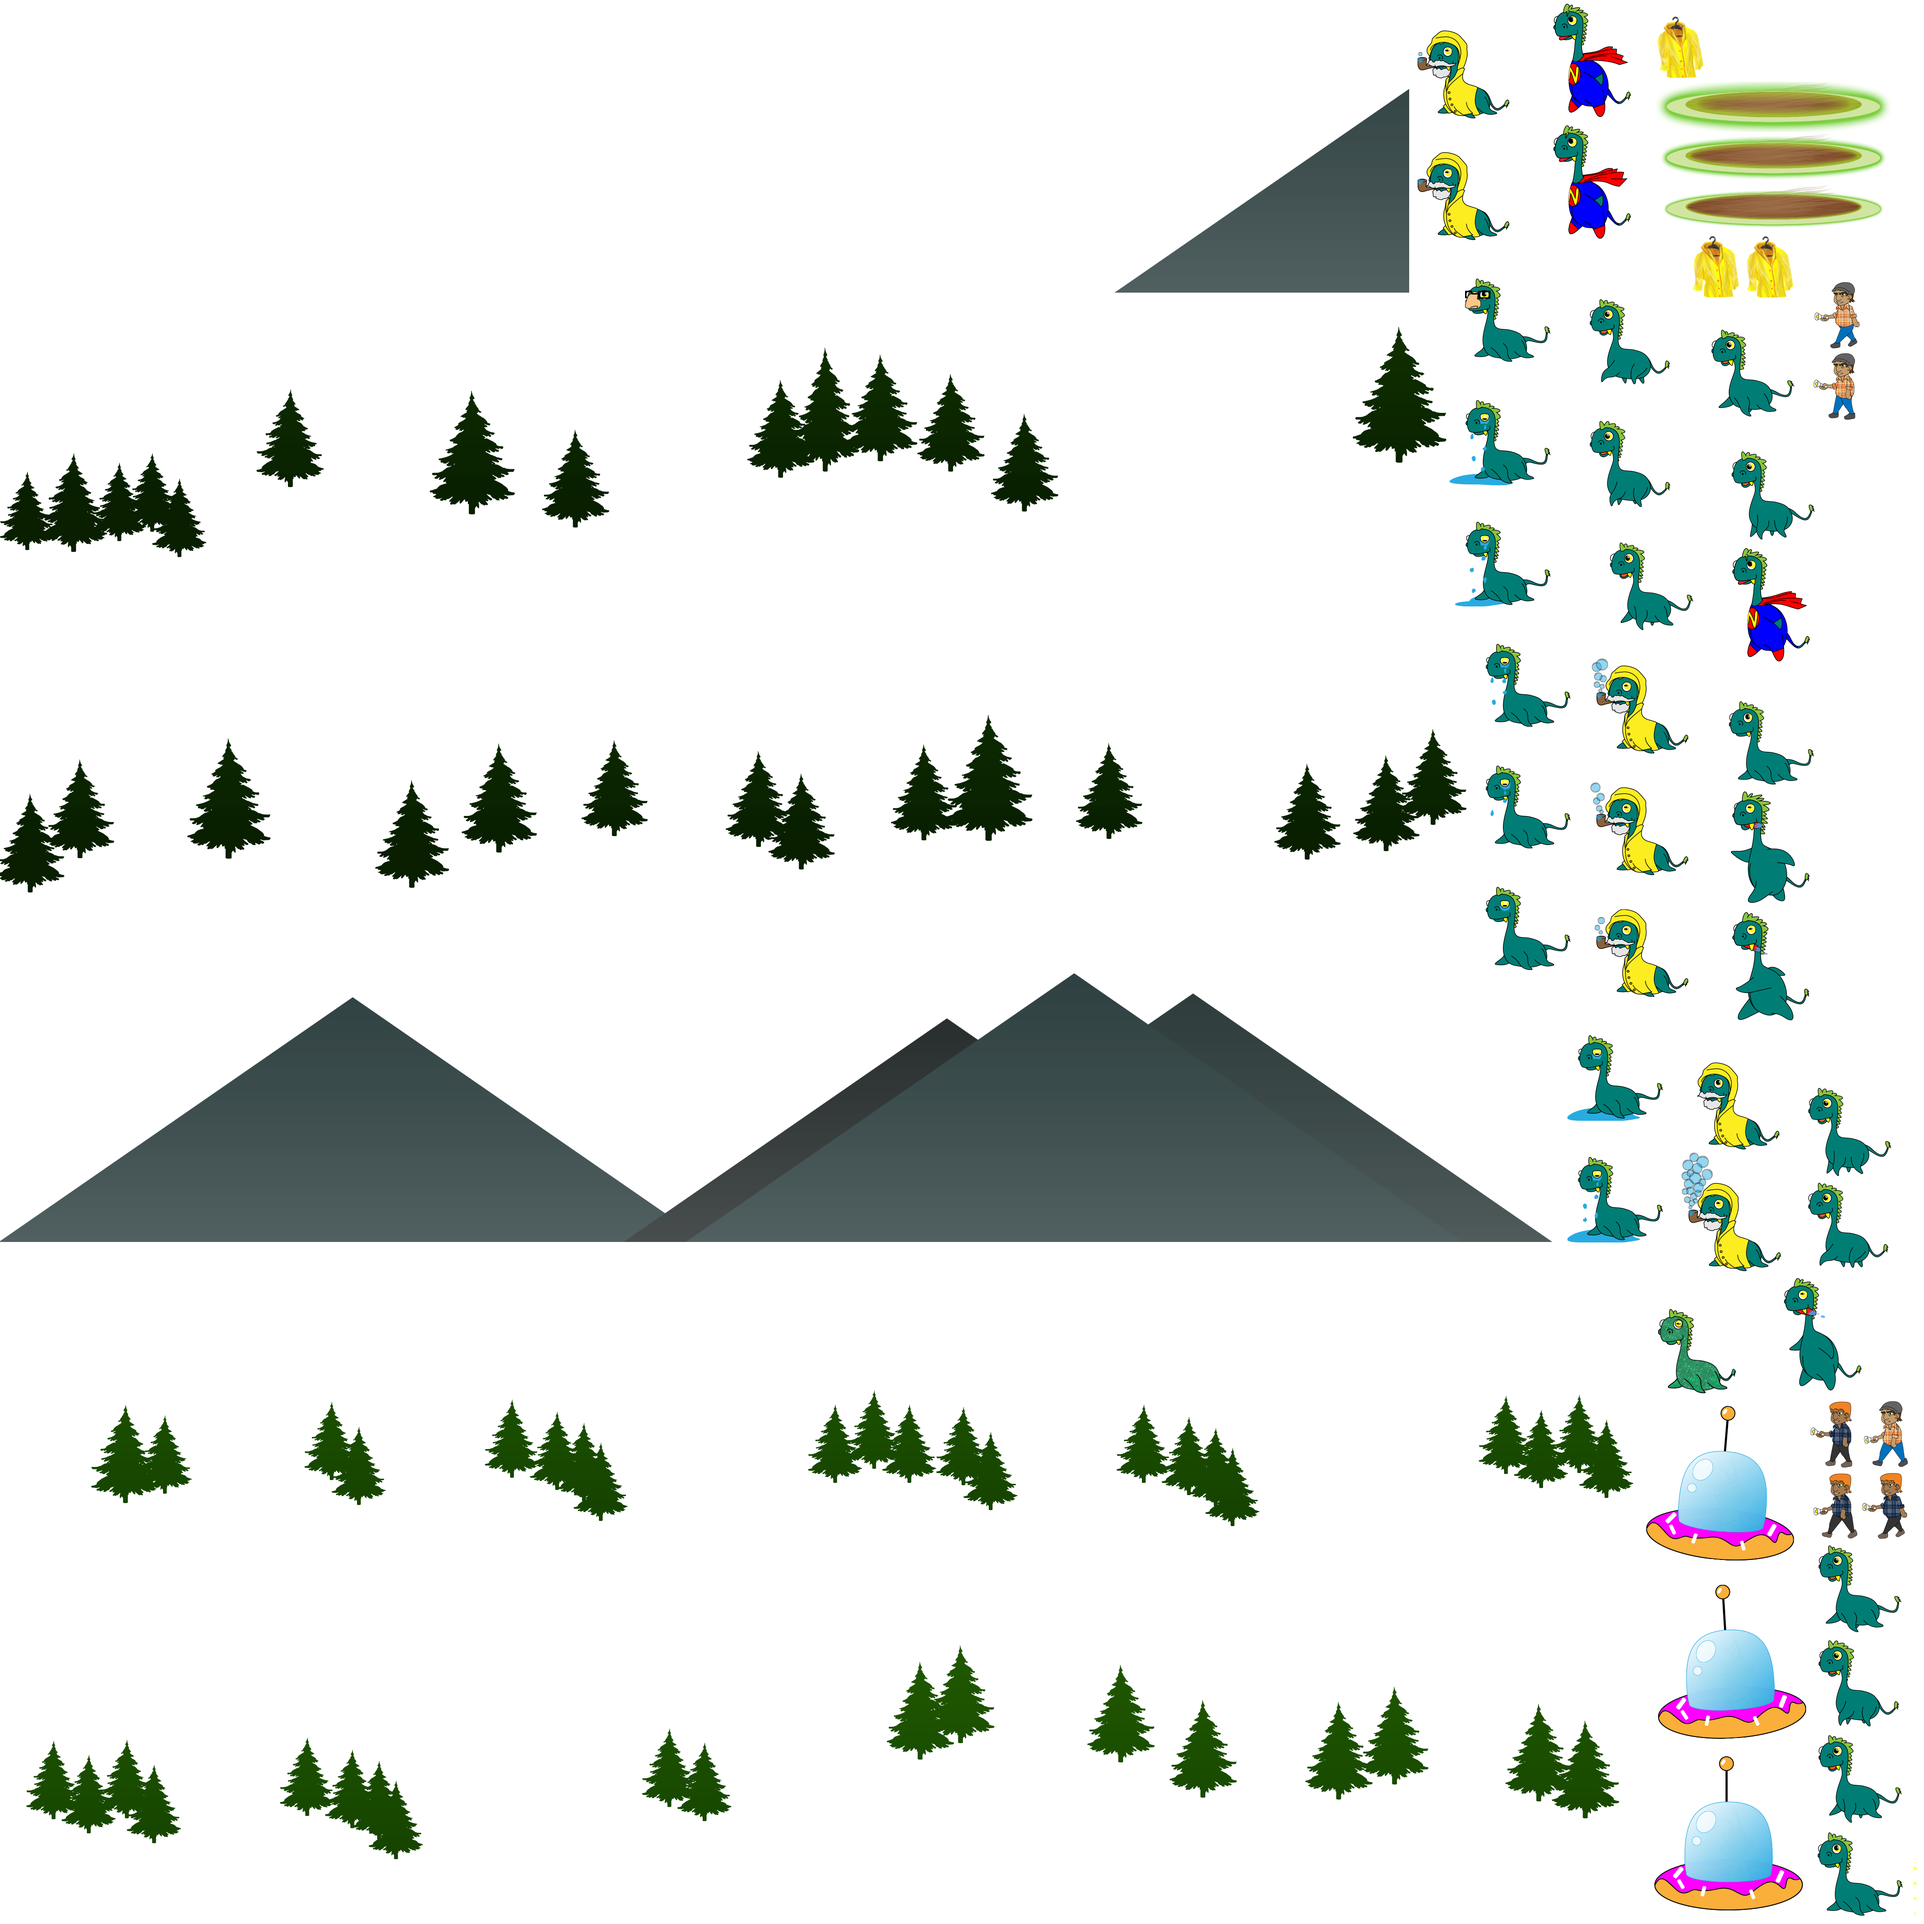
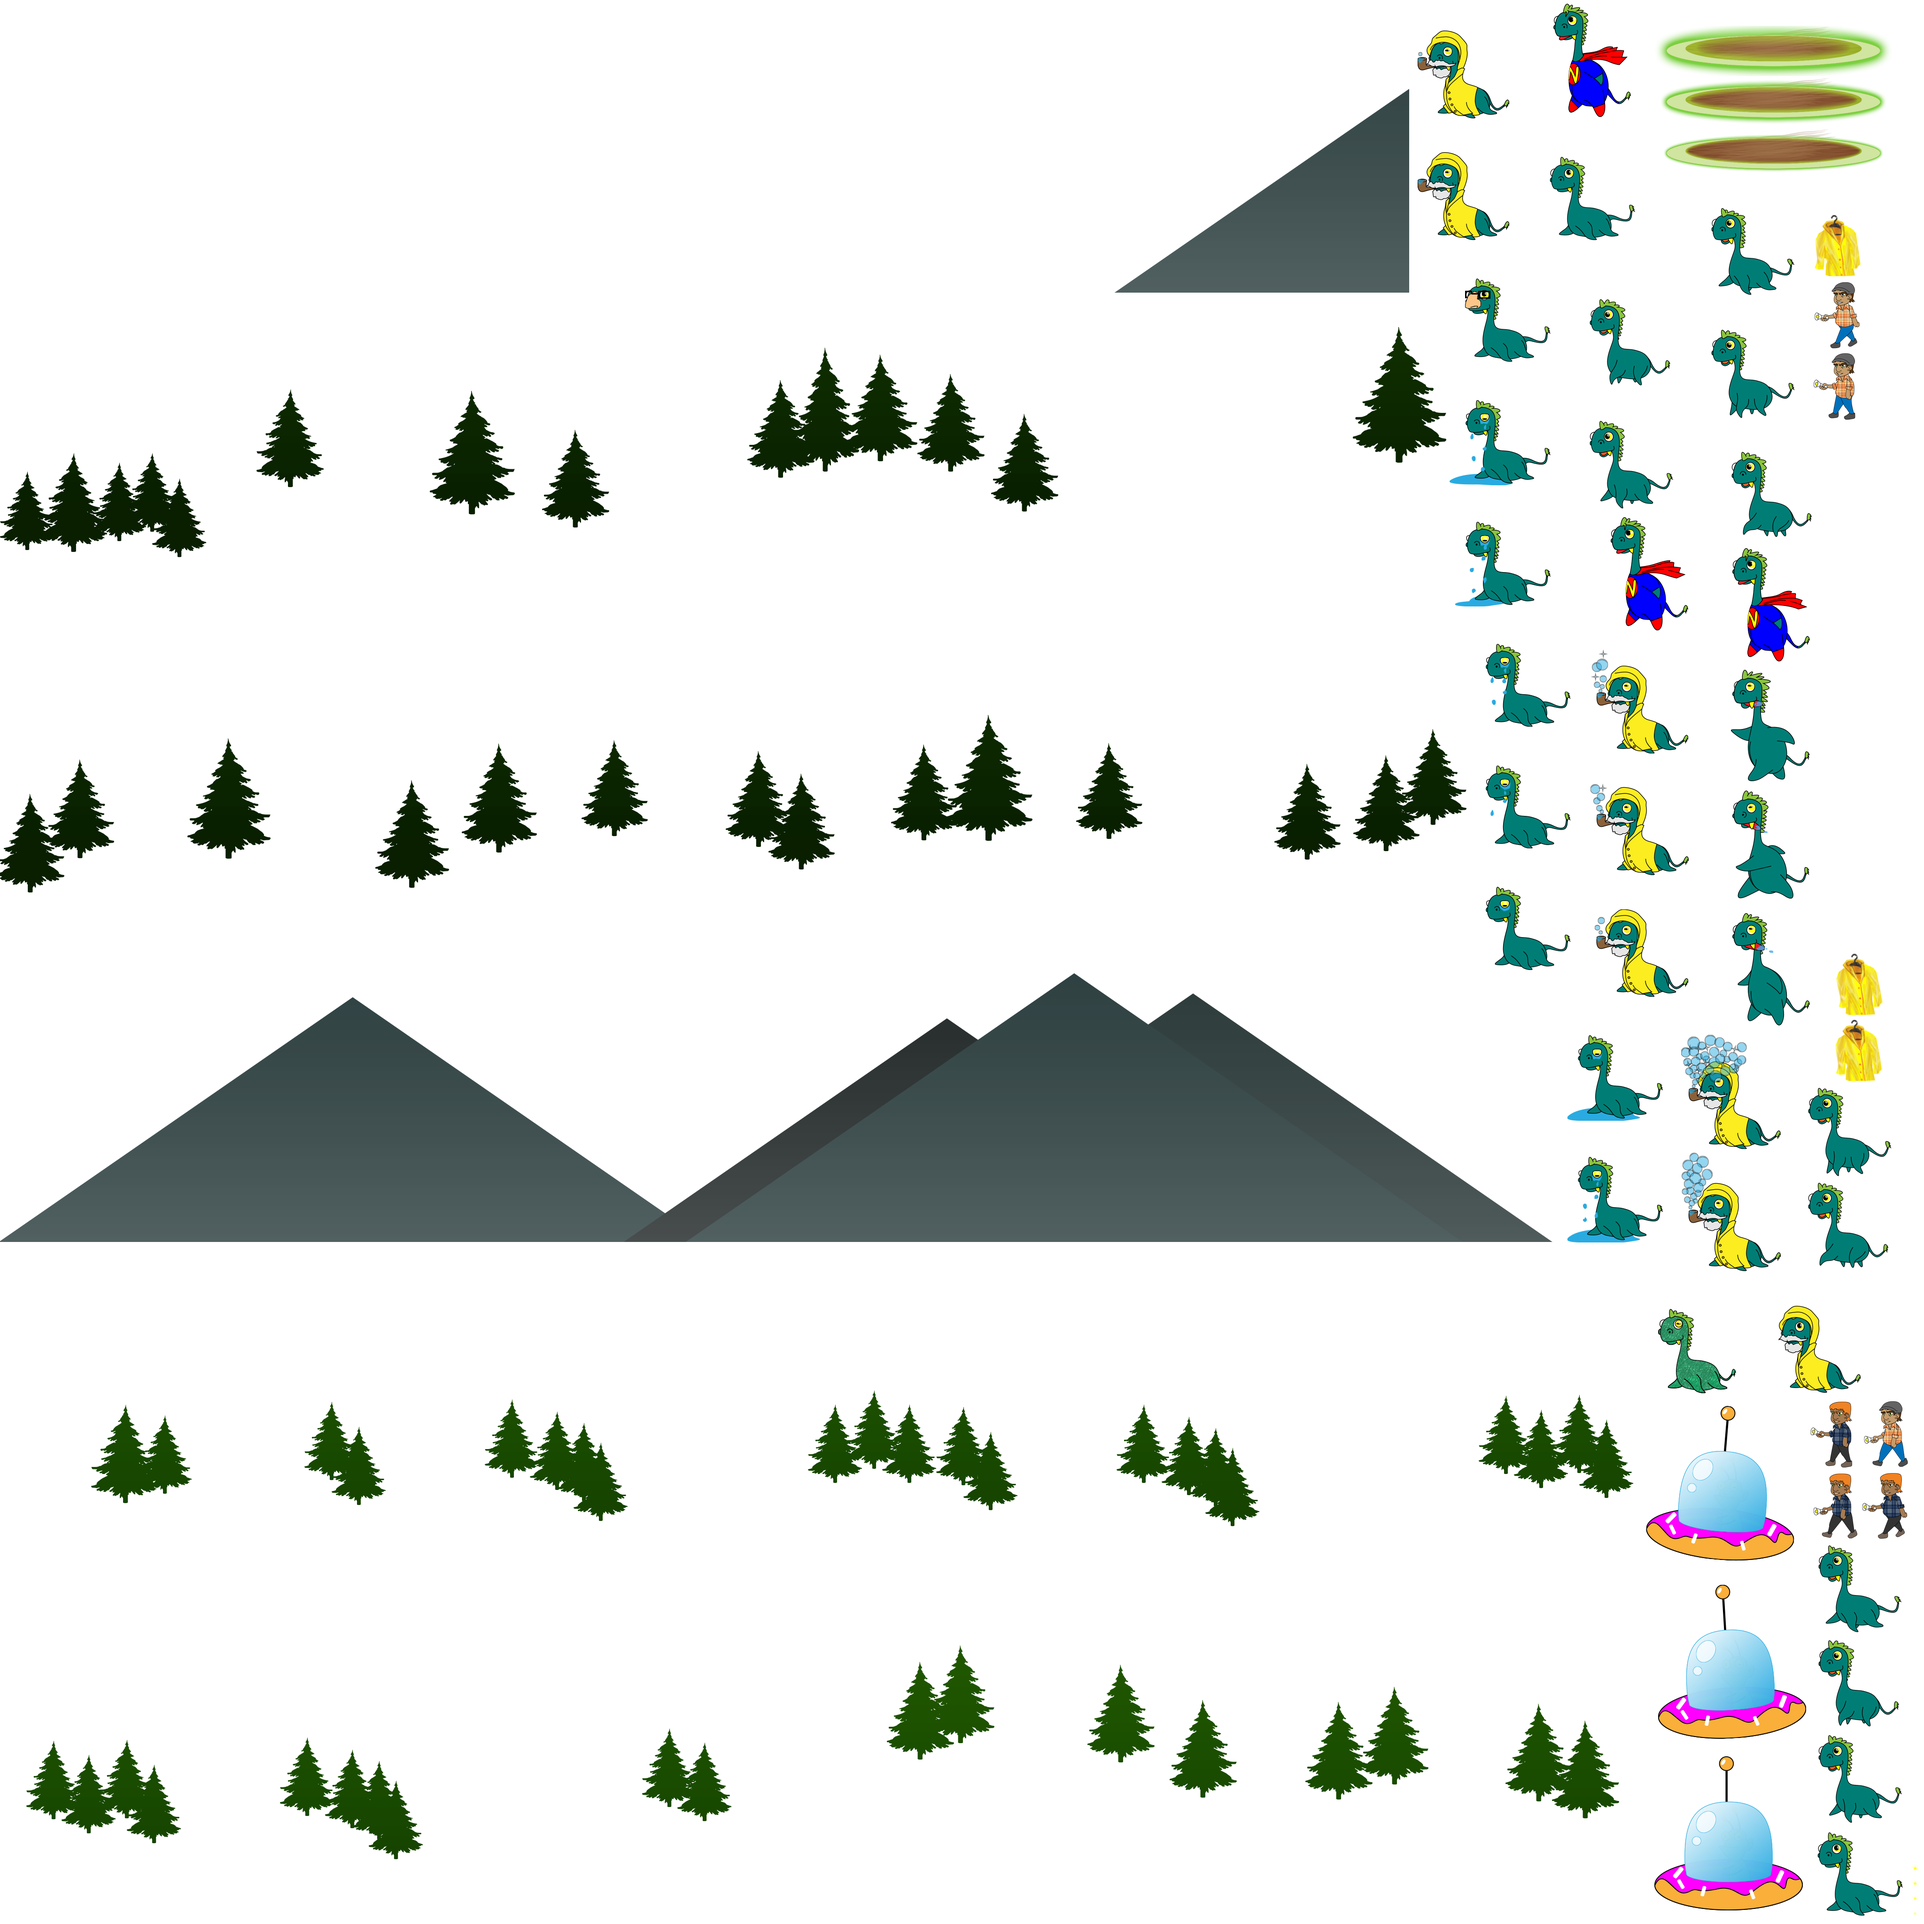
Sizing and clean-up code

diff --git a/core/src/com/pineapplepiranha/games/scene2d/stage/StealthNessieStage.java b/core/src/com/pineapplepiranha/games/scene2d/stage/StealthNessieStage.java
@@ -53,6 +53,7 @@ public class StealthNessieStage extends BaseStage {
     public static final float TOS = 720f;
     public static final float WALKING_CYCLE_RATE = 1f / 5f;
     public static final float RUNNING_CYCLE_RATE = 1f / 6f;
+    public static final float DISGUISE_CYCLE_RATE = 1f / 4f;
     private static float LEVEL_WIDTH = 12000f;
     private static float LEVEL_HEIGHT = TOS;
 
@@ -198,8 +199,8 @@ public class StealthNessieStage extends BaseStage {
         Animation walking = new Animation(WALKING_CYCLE_RATE, atlas.findRegions("nessie/Walking"));
         Animation sadNessie = new Animation(1f/7f, atlas.findRegions("nessie/Cry"));
         Animation runNessie = new Animation(RUNNING_CYCLE_RATE, atlas.findRegions("nessie/Run"));
-        Animation fisherNessie = new Animation(RUNNING_CYCLE_RATE, atlas.findRegions("nessie/Fisherman"));
-        Animation superNessie = new Animation(RUNNING_CYCLE_RATE, atlas.findRegions("nessie/Superman"));
+        Animation fisherNessie = new Animation(DISGUISE_CYCLE_RATE, atlas.findRegions("nessie/Fisherman"));
+        Animation superNessie = new Animation(DISGUISE_CYCLE_RATE, atlas.findRegions("nessie/Superman"));
 
         TextureRegion hidingTr = atlas.findRegion("nessie/Cammo");
         hidingTr.flip(true, false);
@@ -392,8 +393,8 @@ public class StealthNessieStage extends BaseStage {
         patrolVals.add(new Vector3(10500, 720-702, 500));
         Texture flTexture = am.get(AssetsUtil.FLASHLIGHT, AssetsUtil.TEXTURE);
 
-        float width = 75f;
-        float height = 100f;
+        float width = 105f;//75f;
+        float height = 150f;//100f;
         for(Vector3 pv:patrolVals){
             String animationName = pv.z > 500 ? "patrol/Patrol" : "patrol/PatrolA";
             Animation animation = new Animation(1f/3f, atlas.findRegions(animationName));
@@ -937,12 +938,10 @@ public class StealthNessieStage extends BaseStage {
 
         fbo.begin();
         Batch batch = getBatch();
-        batch.setProjectionMatrix(getViewport().getCamera().combined);
         batch.setShader(defaultShader);
         Gdx.gl.glClear(GL20.GL_COLOR_BUFFER_BIT);
-        if(Gdx.graphics.isFullscreen()){
-            Gdx.gl.glViewport(xPos, yPos, screenW, screenH);
-        }
+        Gdx.gl.glViewport(xPos, yPos, screenW, screenH);
+
         batch.begin();
 
         if(!isShowingInstructions){
@@ -965,10 +964,7 @@ public class StealthNessieStage extends BaseStage {
         batch.end();
         fbo.end();
 
-        //We have to manually set viewport if we're in fullscreenmode
-        if(Gdx.graphics.isFullscreen()){
-            Gdx.gl.glViewport(xPos, yPos, screenW, screenH);
-        }
+        Gdx.gl.glViewport(xPos, yPos, screenW, screenH);
 
         if(!isShowingInstructions){
             Gdx.gl.glClear(GL20.GL_COLOR_BUFFER_BIT);

diff --git a/core/src/com/pineapplepiranha/games/screen/MenuScreen.java b/core/src/com/pineapplepiranha/games/screen/MenuScreen.java
@@ -91,27 +91,16 @@ public class MenuScreen extends ApplicationAdapter implements Screen, InputProce
         @Override
         public void render(float delta) {
             stage.act(delta);
-            if(Gdx.graphics.isFullscreen()){
-//                fbo.begin();
-//                fbo.end();
-                Viewport vp = stage.getViewport();
-                int screenW = vp.getScreenWidth();
-                int screenH = vp.getScreenHeight();
-                int leftCrop = vp.getLeftGutterWidth();
-                int rightCrop = vp.getRightGutterWidth();
-                int bottomCrop = vp.getBottomGutterHeight();
-                int topCrop = vp.getTopGutterHeight();
-                int xPos = leftCrop;
-                int yPos = bottomCrop;
-                int width = screenW - (leftCrop + rightCrop);
-                int height = screenH - (bottomCrop + topCrop);
-                Gdx.app.log("Stage", "Screen Dims: " + screenW + "x" + screenH);
-                Gdx.app.log("Stage", "Crops L: " + leftCrop + " R: " + rightCrop + "  B: " + bottomCrop + " T: " + topCrop);
-                Gdx.app.log("Stage", "Viewport Dims: " + xPos + ", " + yPos + " " + width + "x" + height);
-                Gdx.gl.glViewport(xPos, yPos, screenW, screenH);
-            }
 
+            Viewport vp = stage.getViewport();
+            int screenW = vp.getScreenWidth();
+            int screenH = vp.getScreenHeight();
+            int leftCrop = vp.getLeftGutterWidth();
+            int bottomCrop = vp.getBottomGutterHeight();
+            int xPos = leftCrop;
+            int yPos = bottomCrop;
 
+            Gdx.gl.glViewport(xPos, yPos, screenW, screenH);
             stage.draw();
         }
 

diff --git a/core/src/com/pineapplepiranha/games/scene2d/actor/Patrol.java b/core/src/com/pineapplepiranha/games/scene2d/actor/Patrol.java
@@ -45,13 +45,13 @@ public class Patrol extends DepthActor{
         isGoingLeft = speed < 0f;
         this.depthPos = depthPos;
         this.range = range;
-        this.visionBox = new Rectangle(x-(getVisionBoxWidth()), y-(height/4), getVisionBoxWidth(), height*1.5f);
+        this.visionBox = new Rectangle(x-(getVisionBoxWidth()), y+(height/8), getVisionBoxWidth(), height*.75f);
         this.animation = ani;
         updateDirections(isGoingLeft);
     }
 
     private float getVisionBoxWidth(){
-        return getWidth()*2;
+        return getWidth()*1.5f;
     }
 
     @Override
